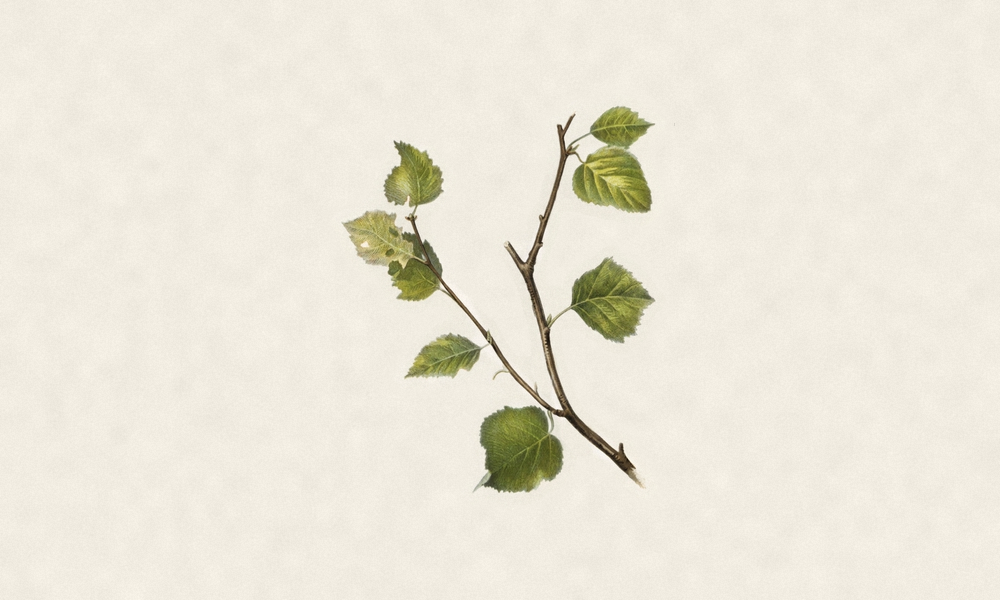
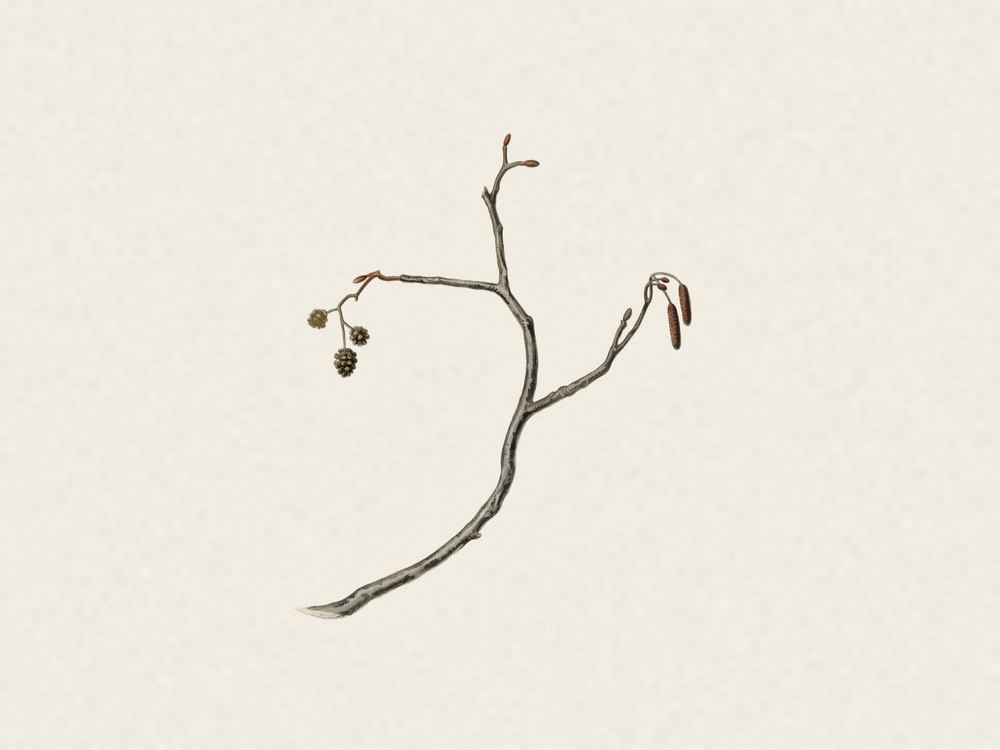
docs: photograph the frame and re-render the art previews
Adds a hero photo, mode photos on the display page, and re-renders the
previews at the panel's 4:3 without labels, from von Wright plates only.
Fills in the display settings, adds how-it-works, hardware and known
limitations to the README.

Changed region(s): [[0.279, 0.18, 0.713, 0.84]]

diff --git a/README.md b/README.md
@@ -1,33 +1,55 @@
 # fugleramme
 E-ink bird frame for Raspberry Pi - real-time bird detection by audio.
 
+<p align="center">
+  <img src="docs/assets/hero.jpg" width="520"
+       alt="The frame on a kitchen windowsill showing six birds heard in the garden, a window feeder on the glass behind it">
+  <br>
+  <em>Sorry about the dirty window - squirrels have been stealing the bird food.</em>
+</p>
+
 Built on top of [BirdNET-Go](https://github.com/tphakala/birdnet-go), which handles
 the mic, the BirdNET classifier and the detection settings. Fugleramme reads
 the detections and renders recently-seen birds on an [Inky-Impression](https://shop.pimoroni.com/products/inky-impression) e-ink panel.
 
 > [!TIP]
-> The e-ink panel is not required, although its recommended for the inteded experience. Without one, Fugleramme runs web-only - show the
+> The e-ink panel is not required, although it's recommended for the intended experience. Without one, Fugleramme runs web-only - show the
 > kiosk on a display over HDMI, or open it from any device on the network.
 
 Live on **[fugleramme.arnegiacomo.dev](https://fugleramme.arnegiacomo.dev)** running from my kitchen window and displaying the actual birds currently heard in my garden (Bergen, Norway).
 
 Hardware, install and operations docs: **[arnegiacomo.dev/fugleramme](https://arnegiacomo.dev/fugleramme/)**
 
-## Art
+## How it works
 
-(WIP)
+Mic → BirdNET-Go → SQLite → collage → panel.
+
+BirdNET-Go listens on a USB mic and writes what it identifies to its own database. Fugleramme reads it, matches each species to an illustration, packs them onto a page, and redraws only when the birds change. There's an admin page that lets you configure what to show, and automatic updates and such.
+
+## Hardware
+
+A Raspberry Pi 5, an [Inky Impression 13.3"](https://shop.pimoroni.com/products/inky-impression)
+(Spectra 6), a USB mic and an A4 frame. Full parts list, alternatives, and why
+each part: **[Hardware](docs/hardware.md)**.
+
+## Art
 
 The birds are cut-outs from historic, public-domain natural-history drawings,
 hand-curated for this project. Each detected species is matched to its
 illustration, background-removed, and packed onto a textured paper page - larger
-birds toward the centre, sized by real body mass. Species with no illustration
-are currently left off, and an empty window shows a bare perch.
+birds toward the centre, sized by body mass. An empty window shows a bare perch.
 
 Half the point of this project is showing off some amazing public-domain natural-history illustrations: every bird is cut from a real plate, no art is AI-generated (though some has been retouched with AI).
 
 | No detections | A few visitors | A full garden |
 | :---: | :---: | :---: |
 | ![No birds detected](docs/assets/empty.png) | ![A few garden birds](docs/assets/few.png) | ![Many garden birds](docs/assets/many.png) |
+
+## Known limitations
+
+- **The artwork covers Northern Europe.** The plates are Scandinavian and
+  British, so the Nordics, the British Isles and Germany are well covered. Elsewhere not so much (yet).
+- **The mic matters more than the Pi.** Detection is BirdNET-Go's job, and how well it does depends mostly on the mic, where you put it, how many birds are in your area and so on.
 
 ## Run locally (for development)
 
@@ -53,11 +75,6 @@ stays blank after that, see
 
 From a blank SD card, see the full [install guide](docs/install.md).
 
-## Prebuilt frames
-
-I've built a few of these. If you'd like one rather than building it yourself,
-please [get in touch](https://arnegiacomo.dev/).
-
 ## License
 
 - Code: MIT - see [`LICENSE`](LICENSE).
@@ -74,3 +91,8 @@ please [get in touch](https://arnegiacomo.dev/).
 - Bird sizes (`assets/bird_sizes.csv`): body mass from AVONET (Tobias et al.
   2022, Ecology Letters, [doi:10.1111/ele.13898](https://doi.org/10.1111/ele.13898)),
   CC BY 4.0.
+
+## Prebuilt frames
+
+I've built a few of these. If you'd like one rather than building it yourself,
+please [get in touch](https://arnegiacomo.dev/).

diff --git a/docs/display.md b/docs/display.md
@@ -13,16 +13,36 @@ What the frame shows, and how to change it. Open the admin page at
 
 Press **A** on the panel to step through the modes, or pick one in the admin page.
 
+| Collage | Latest bird | Newest arrival |
+| :---: | :---: | :---: |
+| ![Collage of the birds heard recently](assets/mode-collage.jpg) | ![A European Robin, the last bird heard](assets/mode-latest.jpg) | ![A Eurasian Wigeon, the most recent new arrival](assets/mode-newest.jpg) |
+
 **Newest arrival** stays put until something new is heard, so it can
 sit on the same bird for weeks, but will update whenever a new species is observed.
 
 **Latest bird** only changes when a different species is heard. The same bird
 calling again all afternoon leaves the page alone. (Like "Newest arrival" but with repeats.)
 
-## Settings
+Heard nothing at all in the lookback window? The page draws a bare perch.
 
-(WIP - move to own settings page or?)
+![An empty page showing a bare perch](assets/frame-empty.jpg)
+
+## Settings
 
 ### Lookback window
 
+How far back the collage looks, from the last 6 hours to all time. Default is
+**Today (24 hours)**. Only the collage uses it.
+
+**All time** never drops a species, so the page only grows.
+
 ### Species names
+
+**Show species names** turns the labels on and off, same as **B** on the panel.
+
+Names come from BirdNET-Go, one dictionary per language. Pick a **primary
+language** and optionally a second, which stacks underneath in parentheses. Only
+downloaded dictionaries are offered - on a fresh install that may be the
+scientific name alone.
+
+**Typeface** and **size** apply to every label.
